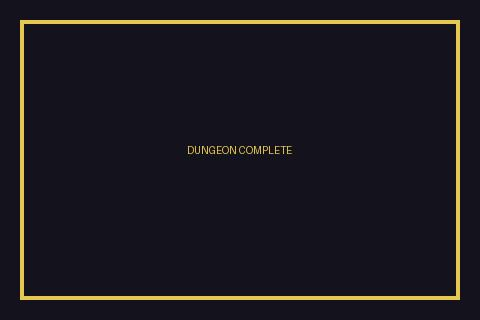
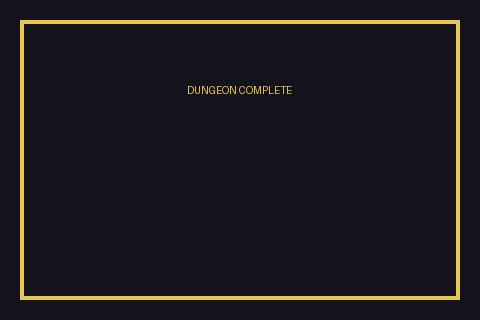
Tile size step B.2: the view follows the level's size; HUD and screen pictures scale
Game.setViewSize sizes the canvas buffer (a whole multiple of the view, about 960x640),
the transform and the renderers from width x tilewidth; the page fits that shape.
30x20 levels of 16 px are unchanged, smaller levels show larger cells. Demo pack:
screen titles above the centre, where the game doesn't write.

Changed region(s): [[0.375, 0.4375, 0.625, 0.5], [0.375, 0.25, 0.625, 0.3125]]

diff --git a/game/src/rendering/hud-renderer.js b/game/src/rendering/hud-renderer.js
@@ -1,4 +1,4 @@
-import { FONT_SIZE } from './constants.js';
+import { FONT_SIZE, REFERENCE_WIDTH, REFERENCE_HEIGHT } from './constants.js';
 import { imageFromPacks } from '../assets.js';
 
 /**
@@ -13,8 +13,7 @@ import { imageFromPacks } from '../assets.js';
 export class HudRenderer {
     constructor(ctx, canvasWidth, canvasHeight, pathPrefix) {
         this.ctx = ctx;
-        this.canvasWidth = canvasWidth;
-        this.canvasHeight = canvasHeight;
+        this.setViewSize(canvasWidth, canvasHeight);
 
         // Fire-and-forget, same as the original Game.start(): the game
         // loop doesn't wait for these to load - drawImage() on an
@@ -26,18 +25,44 @@ export class HudRenderer {
         this.dungeonCompleteImage = imageFromPacks('images/dungeon_complete.jpeg', pathPrefix);
     }
 
+    /**
+     * The view's size in game pixels. Texts, bars and the screen pictures are laid out
+     * for the reference view (REFERENCE_WIDTH x REFERENCE_HEIGHT) and scale with the
+     * view; the pictures keep their shape and are centred.
+     */
+    setViewSize(width, height) {
+        this.canvasWidth = width;
+        this.canvasHeight = height;
+        this.scale = Math.min(width / REFERENCE_WIDTH, height / REFERENCE_HEIGHT);
+    }
+
+    /** Font for HUD texts, scaled with the view. */
+    font() {
+        return `${FONT_SIZE * this.scale}px Arial`;
+    }
+
+    /** A full-screen picture: black background, the picture centred in its reference shape. */
+    drawScreenImage(image) {
+        const ctx = this.ctx;
+        const width = REFERENCE_WIDTH * this.scale, height = REFERENCE_HEIGHT * this.scale;
+        ctx.fillStyle = 'black';
+        ctx.fillRect(0, 0, this.canvasWidth, this.canvasHeight);
+        ctx.drawImage(image, (this.canvasWidth - width) / 2, (this.canvasHeight - height) / 2, width, height);
+    }
+
     /** Draws the "waiting for a level to be loaded" entry screen. */
     drawWaitingScreen() {
         const ctx = this.ctx;
-        ctx.drawImage(this.entryScreenImage, 0, 0, this.canvasWidth, this.canvasHeight);
+        const s = this.scale;
+        this.drawScreenImage(this.entryScreenImage);
         ctx.fillStyle = 'black';
-        ctx.fillRect(10, this.canvasHeight - 30, this.canvasWidth - 20, 20);
+        ctx.fillRect(10 * s, this.canvasHeight - 30 * s, this.canvasWidth - 20 * s, 20 * s);
 
         ctx.fillStyle = 'green';
-        ctx.font = `${FONT_SIZE}px Arial`;
+        ctx.font = this.font();
         ctx.textAlign = 'center';
         ctx.textBaseline = 'middle';
-        ctx.fillText('Use the Python API to connect and load a level!', this.canvasWidth / 2, this.canvasHeight - 20);
+        ctx.fillText('Use the Python API to connect and load a level!', this.canvasWidth / 2, this.canvasHeight - 20 * s);
     }
 
     /** Draws a full-screen darkness tint based on the level's current brightness. */
@@ -51,36 +76,37 @@ export class HudRenderer {
     /** Banner shown while the hero stands on the goal but win conditions are still unmet. */
     drawGoalHint(missing) {
         const ctx = this.ctx;
+        const s = this.scale;
         ctx.fillStyle = 'rgba(0, 0, 0, 0.75)';
-        ctx.fillRect(10, 8, this.canvasWidth - 20, 22);
+        ctx.fillRect(10 * s, 8 * s, this.canvasWidth - 20 * s, 22 * s);
         ctx.fillStyle = '#ffcc00';
-        ctx.font = `${FONT_SIZE}px Arial`;
+        ctx.font = this.font();
         ctx.textAlign = 'center';
         ctx.textBaseline = 'middle';
-        ctx.fillText(`Goal reached, but still missing: ${missing.join(', ')}`, this.canvasWidth / 2, 19);
+        ctx.fillText(`Goal reached, but still missing: ${missing.join(', ')}`, this.canvasWidth / 2, 19 * s);
     }
 
     /** Draws the "Game Over" screen shown when the character has died. */
     drawGameOverScreen(remainingTime) {
         const ctx = this.ctx;
-        ctx.drawImage(this.gameOverImage, 0, 0, this.canvasWidth, this.canvasHeight);
+        this.drawScreenImage(this.gameOverImage);
 
         ctx.fillStyle = 'red';
-        ctx.font = `${FONT_SIZE}px Arial`;
+        ctx.font = this.font();
         ctx.textAlign = 'center';
         ctx.textBaseline = 'middle';
 
         const text = `Continue in ${Math.ceil(remainingTime / 1000)}s.`;
-        this.drawMultilineText(text, this.canvasWidth / 2, this.canvasHeight / 2, FONT_SIZE * 1.2);
+        this.drawMultilineText(text, this.canvasWidth / 2, this.canvasHeight / 2, FONT_SIZE * 1.2 * this.scale);
     }
 
     /** Draws the "Level Complete" summary screen shown when a level is finished successfully. */
     drawLevelCompleteScreen(statistics, remainingTime) {
         const ctx = this.ctx;
-        ctx.drawImage(this.dungeonCompleteImage, 0, 0, this.canvasWidth, this.canvasHeight);
+        this.drawScreenImage(this.dungeonCompleteImage);
 
         ctx.fillStyle = 'green';
-        ctx.font = `${FONT_SIZE}px Arial`;
+        ctx.font = this.font();
         ctx.textAlign = 'center';
         ctx.textBaseline = 'middle';
 
@@ -91,7 +117,7 @@ export class HudRenderer {
         }
         text += `Continue in ${Math.ceil(remainingTime / 1000)}s.`;
 
-        this.drawMultilineText(text, this.canvasWidth / 2, this.canvasHeight / 2, FONT_SIZE * 1.2);
+        this.drawMultilineText(text, this.canvasWidth / 2, this.canvasHeight / 2, FONT_SIZE * 1.2 * this.scale);
     }
 
     drawMultilineText(text, x, y, lineHeight) {

diff --git a/game/src/game.js b/game/src/game.js
@@ -6,10 +6,20 @@ import { createRenderer } from './rendering/create-renderer.js';
 import { GAME_STATE } from './game-state.js';
 import { Fog } from './fog.js';
 
+/** The view before a level is loaded, in game pixels: 30 x 20 cells of 16 px. */
 export const GAME_WIDTH = 480;
-/** The canvas buffer is this many times larger than the game (sharp text); drawing uses game pixels. */
-export const RENDER_SCALE = 2;
 export const GAME_HEIGHT = 320;
+/**
+ * The canvas buffer is larger than the view (sharp text); drawing uses game pixels.
+ * At the default view the factor is RENDER_SCALE; other views get the whole factor
+ * that brings them to about the same buffer size (see bufferScale).
+ */
+export const RENDER_SCALE = 2;
+
+/** Whole number of buffer pixels per game pixel for a view of this size. */
+export function bufferScale(viewWidth, viewHeight) {
+    return Math.max(1, Math.ceil(Math.min(GAME_WIDTH * RENDER_SCALE / viewWidth, GAME_HEIGHT * RENDER_SCALE / viewHeight)));
+}
 
 export class Game {
     static GAME_STATE = GAME_STATE;
@@ -27,6 +37,9 @@ export class Game {
         this.canvas = canvas;
         this.ctx = canvas.getContext('2d');
         this.renderer = createRenderer(this.ctx, GAME_WIDTH, GAME_HEIGHT, pathPrefix);
+        /** Called after the view size changed, so the page can fit the canvas again. */
+        this.onViewChange = null;
+        this.setViewSize(GAME_WIDTH, GAME_HEIGHT);
         this.inputManager = new KeyBoardInput();
         this.currentGameState = GAME_STATE.WAITING_FOR_LEVEL;
         this.remainingTime = 5000;
@@ -38,9 +51,33 @@ export class Game {
         this.fog = null;
     }
 
+    /**
+     * The view is as large as the level (in game pixels). Sets the canvas buffer,
+     * the drawing transform and the renderers' size.
+     */
+    setViewSize(width, height) {
+        this.viewWidth = width;
+        this.viewHeight = height;
+        const scale = bufferScale(width, height);
+        this.canvas.width = width * scale;          // also resets the context's state
+        this.canvas.height = height * scale;
+        this.canvas.dataset.viewWidth = width;
+        this.canvas.dataset.viewHeight = height;
+        this.ctx.setTransform(scale, 0, 0, scale, 0, 0);
+        this.ctx.imageSmoothingEnabled = false;
+        this.renderer.setViewSize(width, height);
+        if (this.onViewChange) {
+            this.onViewChange();
+        }
+    }
+
     async loadLevel(levelData) {
         this.statistics.reset();
         this.level = await Level.create(levelData, this.pathPrefix);
+        const width = this.level.width * this.level.tileWidth, height = this.level.height * this.level.tileHeight;
+        if (width > 0 && height > 0 && (width !== this.viewWidth || height !== this.viewHeight)) {
+            this.setViewSize(width, height);
+        }
         this.character = this.level.getObjectByName("MainCharacter");
         this.characterInterface = new CharacterInterface(this, this.level, this.character, this.statistics);
         this.inputManager.setCharacter(this.character);

diff --git a/game/src/script.js b/game/src/script.js
@@ -1,4 +1,4 @@
-import { Game, GAME_WIDTH, GAME_HEIGHT, RENDER_SCALE } from './game.js';
+import { Game, GAME_WIDTH, GAME_HEIGHT } from './game.js';
 import { COMMANDS } from './commands.js';
 
 let vscode = null;
@@ -72,10 +72,11 @@ function loadFileAsync(file) {
     function resizeCanvas() {
         const picker = document.getElementById('json-file-input');     // only shown in the browser
         const reserved = picker && picker.style.display !== 'none' ? picker.offsetHeight + 16 : 0;
-        const scale = Math.max(0.5, 0.97 * Math.min(window.innerWidth / GAME_WIDTH,
-                                                     (window.innerHeight - reserved) / GAME_HEIGHT));
-        canvas.style.width = Math.floor(GAME_WIDTH * scale) + "px";
-        canvas.style.height = Math.floor(GAME_HEIGHT * scale) + "px";
+        const width = game.viewWidth, height = game.viewHeight;     // the level's size in game pixels
+        const fit = 0.97 * Math.min(window.innerWidth / width, (window.innerHeight - reserved) / height);
+        const scale = Math.max(0.5 * Math.min(GAME_WIDTH / width, GAME_HEIGHT / height), fit);
+        canvas.style.width = Math.floor(width * scale) + "px";
+        canvas.style.height = Math.floor(height * scale) + "px";
     }
 
     // One handler per RPC method, keyed by the shared COMMANDS registry
@@ -247,19 +248,14 @@ function loadFileAsync(file) {
 
     const fileInput = document.getElementById('json-file-input');
     const canvas = document.getElementById('gameCanvas');
-    // Draw into a buffer RENDER_SCALE times as large: tiles look the same, text gets crisp.
-    // Everything draws in game pixels (480 x 320); the transform does the scaling.
-    canvas.width = GAME_WIDTH * RENDER_SCALE;
-    canvas.height = GAME_HEIGHT * RENDER_SCALE;
-    const ctx = canvas.getContext('2d');
-    ctx.setTransform(RENDER_SCALE, 0, 0, RENDER_SCALE, 0, 0);
-    ctx.imageSmoothingEnabled = false;
-
     if(isRunningInVSCodeWebview()) {
         fileInput.style.display = 'none';
     }
 
+    // The game sizes the canvas buffer itself (Game.setViewSize): larger than the view, so
+    // text gets crisp. Everything draws in game pixels; the transform does the scaling.
     const game = new Game(canvas, getAssetPath(""));
+    game.onViewChange = resizeCanvas;
     game.start();
 
     fileInput.addEventListener('change', async (event) => {

diff --git a/game/src/rendering/game-renderer.js b/game/src/rendering/game-renderer.js
@@ -24,6 +24,13 @@ export class GameRenderer {
         this.fogRenderer = fogRenderer;
     }
 
+    /** The view's size in game pixels (the level's size; Game.setViewSize). */
+    setViewSize(width, height) {
+        this.canvasWidth = width;
+        this.canvasHeight = height;
+        this.hudRenderer.setViewSize(width, height);
+    }
+
     drawWaitingScreen() {
         this.hudRenderer.drawWaitingScreen();
     }

diff --git a/game/src/rendering/constants.js b/game/src/rendering/constants.js
@@ -1,1 +1,4 @@
 export const FONT_SIZE = 12;
+/** The view the HUD is laid out for (30 x 20 cells of 16 px); other views scale it. */
+export const REFERENCE_WIDTH = 480;
+export const REFERENCE_HEIGHT = 320;

diff --git a/tools/make_demo_pack.py b/tools/make_demo_pack.py
@@ -165,7 +165,7 @@ def screen(text, colour, path):
     img = Image.new("RGB", (480, 320), (20, 18, 28))
     d = ImageDraw.Draw(img)
     d.rectangle([20, 20, 459, 299], outline=colour, width=4)
-    d.text((240, 150), text, fill=colour, anchor="mm")
+    d.text((240, 90), text, fill=colour, anchor="mm")     # above the centre: the game writes its texts there
     img.save(path)
 
 

diff --git a/CHANGELOG.md b/CHANGELOG.md
@@ -10,7 +10,9 @@ Check [Keep a Changelog](http://keepachangelog.com/) for recommendations on how 
 
 - **Port setting**: `dungeonCoder.port` (default 3000) lets a second Dungeon Coder run next to another one. The extension writes the port to `.dungeoncoder-port` in the workspace, and the Python package finds it there (or in `DUNGEONCODER_PORT`). The "port in use" message now says what is probably running and how to switch.
 - Both servers (extension and dev server) register their routes from one table generated from `api/openapi.yaml` (`ROUTES` in `game/src/commands.js`) instead of two hand-kept lists.
-- **One tile size**: the hero now steps and senses on the level's own grid (`tilewidth`/`tileheight` of the level file) instead of a fixed 16 px (`TILE_SIZE` is gone), in the game and in the simulator. Levels with 16 px cells behave as before; a level with 32 px cells now plays by the same rules (the view is still sized for 30x20 cells of 16 px).
+- **The view follows the level**: the game view is as large as the level (`width` x `tilewidth`, `height` x `tileheight`) instead of a fixed 480 x 320. Levels of 30 x 20 cells of 16 px look as before; a smaller level (e.g. 15 x 10 cells) fills the panel with larger cells, a larger one is shown completely. Texts, banners and the title/end pictures scale with the view; the pictures keep their shape and are centred. The canvas carries `data-view-width`/`data-view-height`.
+- Demo pack: the titles of the screen pictures sit above the centre, where the game doesn't write.
+- **One tile size**: the hero now steps and senses on the level's own grid (`tilewidth`/`tileheight` of the level file) instead of a fixed 16 px (`TILE_SIZE` is gone), in the game and in the simulator. Levels with 16 px cells behave as before; a level with 32 px cells now plays by the same rules.
 - **Bigger, sharper game view**: the game now fills the panel with any scale factor (before: whole numbers only, so a 700 px panel showed it at 1×), and it is drawn into a buffer twice as large, so text is crisp.
 - **Asset packs**: tilesets, images and screens are looked up in the asset packs named by the setting `dungeonCoder.assetPacks` (or `DC_ASSET_PACKS` for the dev server) before the extension's own assets. A free **demo pack** (`packs/demo`, every picture drawn by `tools/make_demo_pack.py`, CC0) with two demo levels shows the format.
 - **Guards and the oracle** (turn-based): objects of type `Guard` with the property `behaviour` = `patrol` (walks in `direction` and turns back at obstacles) or `chase` (steps towards the hero) take one step each time the hero tries `move()` (also a blocked one; turning takes no time). A guard on the hero's field, the hero walking into one, or swapping fields ends the game. `hero.is_enemy_in_front()` senses them. In levels with `orakel: true`, `hero.ask_oracle()` answers the first step of a shortest way to the exit. Statistics: `questions`, and `game_over` (fallen or caught). Text maps: `W` with a `guards:` header line. The simulator does all of it.
